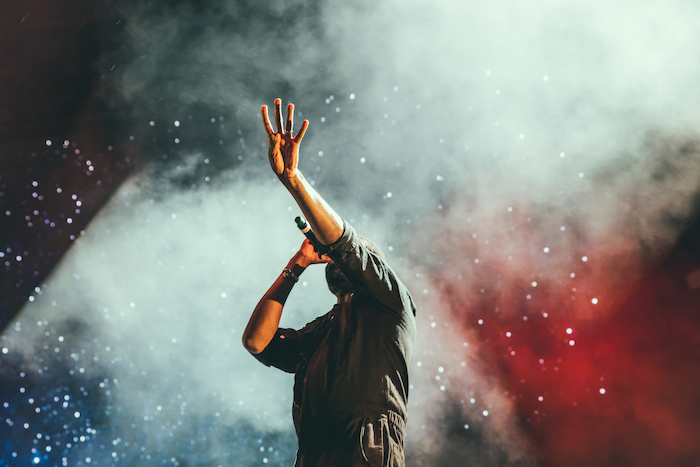
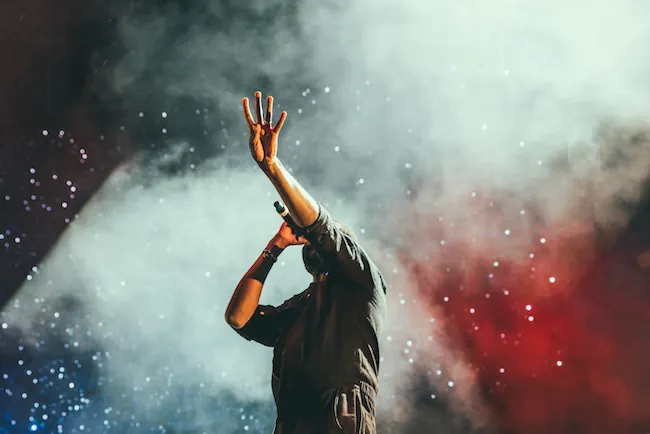
resized all gallery images

diff --git a/index.html b/index.html
@@ -10,11 +10,6 @@
 	<link rel="preconnect" href="https://fonts.googleapis.com">
 	<link rel="preconnect" href="https://fonts.gstatic.com" crossorigin>
 	<meta charset="UTF-8">
-	<style>
-		.priority-image {
-		  image-rendering: pixelated !important;
-		}
-	  </style>
 </head>
 <body>
 <div class="top-header">
@@ -40,21 +35,19 @@
 		<div class="carousel-inner">
 			<div class="carousel-item active">
 				<img 
-				src="https://res.cloudinary.com/dwhados32/image/upload/v1708295042/soklkhk2ls3ezs8rqusw.webp"
-				srcset="https://res.cloudinary.com/dwhados32/image/upload/v1708295042/l90ume5tga9y1tuq2fxe.webp 1200w, 
-						https://res.cloudinary.com/dwhados32/image/upload/v1708295042/sbprcntpnf4qcak86pxo.webp 650w,"
+				src="./assets/images/slider/ryoji-iwata-wUZjnOv7t0g-unsplash.webp"
+				srcset="./assets/images/slider/ryoji-iwata-wUZjnOv7t0g-unsplash_650w.webp 650w"
 				sizes="(min-width: 650px) 1200px, 100vw"
 				class="d-block w-100 priority-image" 
 				alt="salaryman crossing a road in Japan"
-				width="1921px"
 				loading="eager"
 			  >
 			</div>
 			<div class="carousel-item">
-				<img loading="eager" src="https://res.cloudinary.com/dwhados32/image/upload/v1708296626/hswzhotdomkh5mwhoerw.webp" class="d-block w-100" alt="lit-up faces of music fans in a concert crowd">
+				<img loading="eager" src="./assets/images/slider/nicholas-green_crowd-living-the-music.webp" class="d-block w-100" alt="lit-up faces of music fans in a concert crowd" srcset="./assets/images/slider/nicholas-green_crowd-living-the-music_650w.webp 650w">
 			</div>
 			<div class="carousel-item">
-				<img loading="eager" src="https://res.cloudinary.com/dwhados32/image/upload/v1708296626/phlnmub2imgr1b5kjbbb.webp" class="d-block w-100" alt="new husband and wife kissing romanticaly in a church">
+				<img loading="eager" src="./assets/images/slider/edward-cisneros-kissing-the-bride.webp" class="d-block w-100" alt="new husband and wife kissing romanticaly in a church" srcset="./assets/images/slider/edward-cisneros-kissing-the-bride_650w.webp 650w">
 			</div>
 		</div>
 		<button class="carousel-control-prev" type="button" data-bs-target="#carouselExampleIndicators" data-bs-slide="prev">
